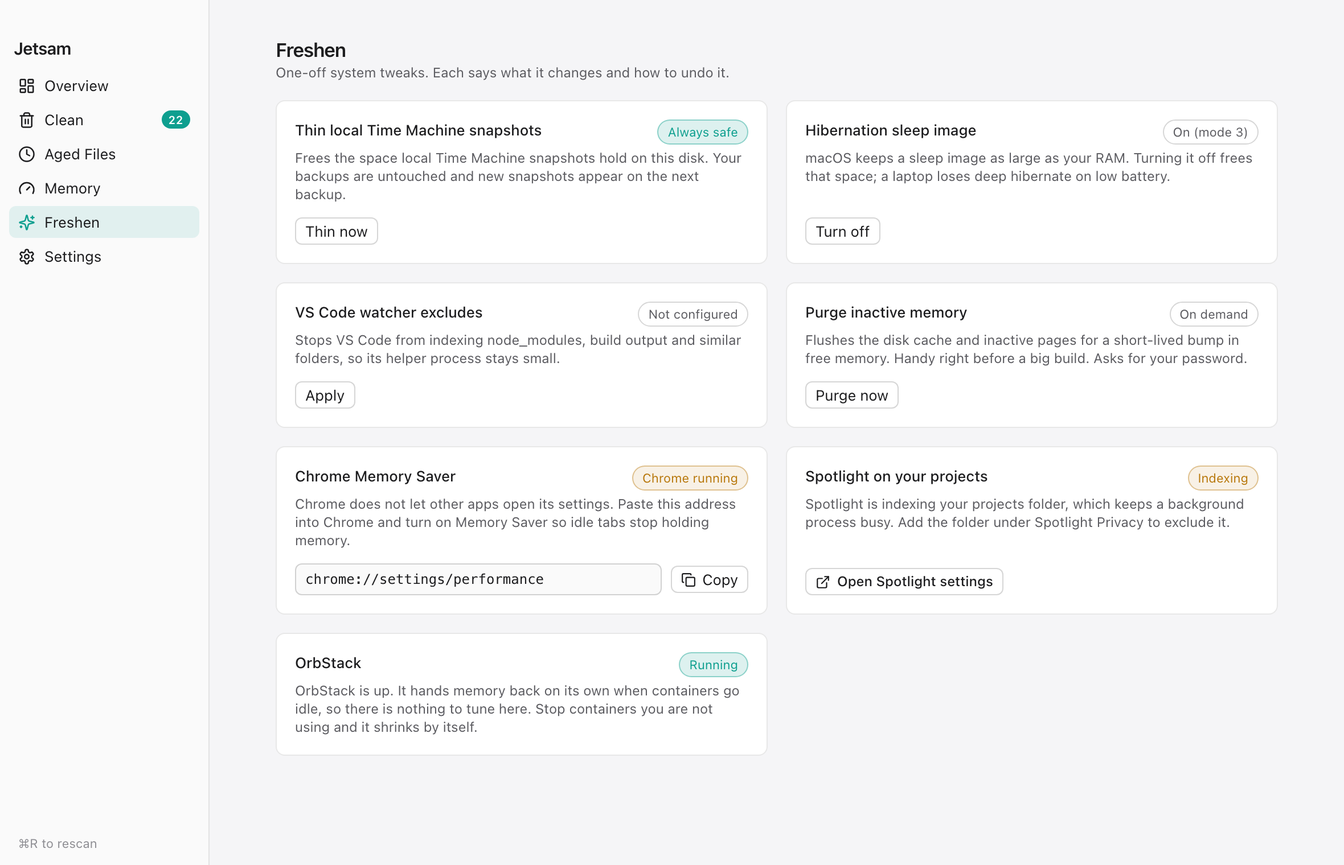
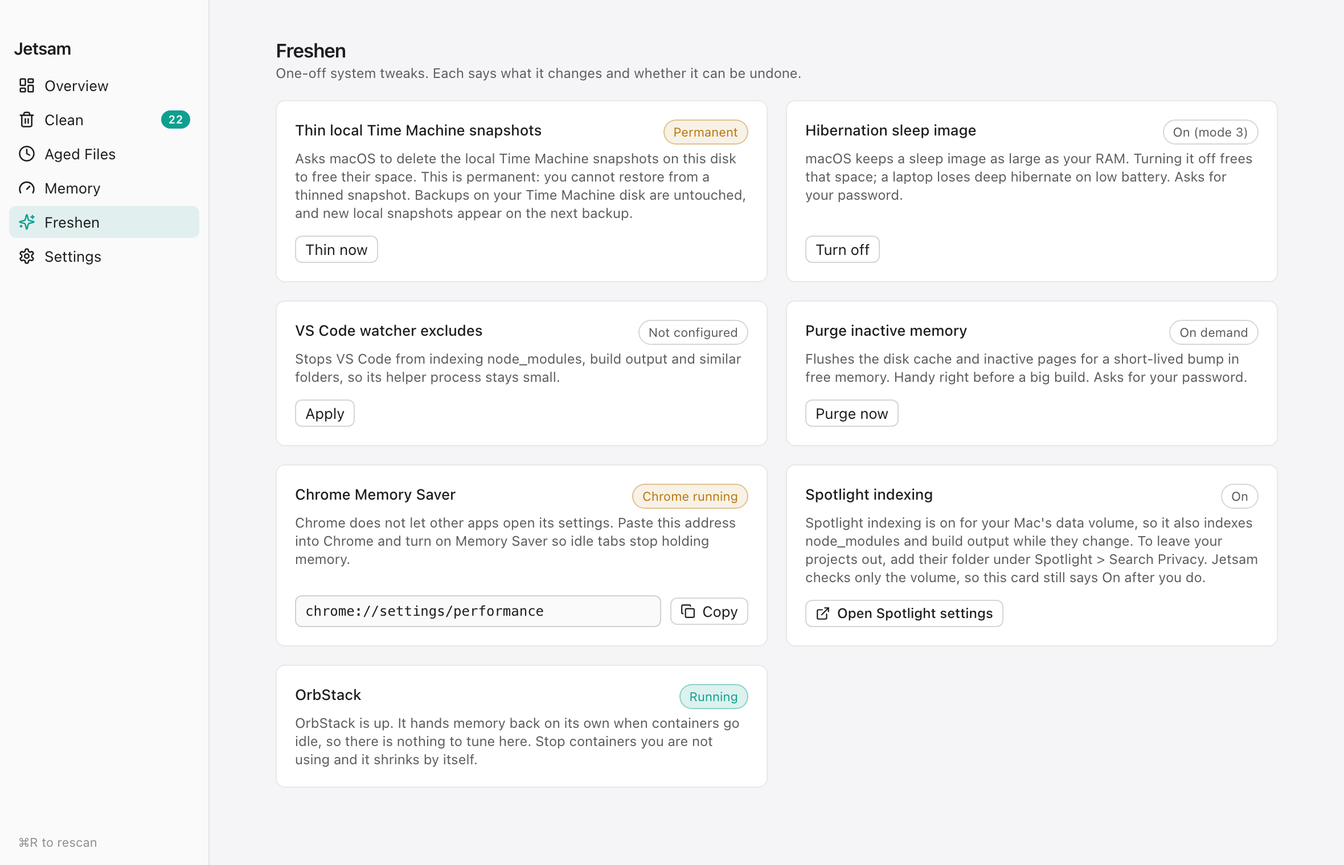
Correct the docs against 0.1.0, refresh screenshots, add Homebrew install

diff --git a/README.md b/README.md
@@ -28,6 +28,14 @@ gh release verify-asset Jetsam.dmg --repo nitwit45/jetsam
 
 The second command needs [GitHub CLI](https://cli.github.com) 2.81 or later. It checks the file against GitHub's signed record of the release. Releases here are immutable: once one is published, its files and its tag cannot be changed. I built 0.1.0 on my own Mac, not in the release workflow, so it has no build provenance attestation.
 
+Or with Homebrew:
+
+```sh
+brew install --cask nitwit45/tap/jetsam
+```
+
+The [cask](https://github.com/nitwit45/homebrew-tap/blob/main/Casks/jetsam.rb) removes the quarantine attribute after it installs, which is what the `xattr` command below does by hand, so macOS does not block the first launch.
+
 ### Opening an unsigned build
 
 Jetsam is not signed with an Apple Developer ID, so macOS blocks the first launch.
@@ -45,6 +53,10 @@ On macOS 15 and later, Control-click > Open no longer gets past this. If macOS s
 
 Then grant Full Disk Access, see [Permissions and network](#permissions-and-network).
 
+### Updating
+
+Jetsam does not check for updates. To hear about a new version, choose **Watch > Custom > Releases** on this repository. To update, quit Jetsam and replace it in Applications with the one from the new `Jetsam.dmg`, or run `brew upgrade --cask jetsam`. Your settings, the ops log and a weekly clean you had switched on all stay. macOS may ask for Full Disk Access again, because an unsigned build counts as a new app each time: if the banner returns, remove Jetsam from the Full Disk Access list and add it again.
+
 ## What it does
 
 ### Clean
@@ -53,16 +65,16 @@ Pick a mode on **Overview**, press **Scan**, and review the result under **Clean
 
 | Mode | Adds |
 |---|---|
-| Light | `~/Library/Caches` (except what Standard lists) and `~/Library/Logs`, the Trash, `.dmg` and `.pkg` files in Downloads older than 14 days, Homebrew cleanup, Docker dangling images and build cache. |
+| Light | `~/Library/Caches` (except what Standard lists) and `~/Library/Logs`, `.dmg` and `.pkg` files in Downloads older than 14 days, Homebrew cleanup, Docker dangling images and build cache. What is already in the Trash is listed too, and is emptied only after you confirm a permanent delete. |
 | Standard | Package manager caches (npm, pnpm, bun, pip, cargo, Gradle, Playwright), Xcode and Android leftovers. |
 | Deep | Build folders in inactive projects, stale merged worktrees, all unused Docker images, and AI session logs older than 45 days for you to review. |
 | Full | Build folders in projects you are working on now. Nothing git-tracked is touched. |
 
-A project is active when its newest commit or git index write is under 14 days old (**Settings > Recent window**). Deep lists its build folders but they cannot be ticked. A project outside git has no activity date, so Deep preselects its build folders. Every path and rule: [docs/modes.md](docs/modes.md).
+A project is active when its newest commit or git index write is under 14 days old (**Settings > Recent window**). In Deep, an active project's build folders are listed but cannot be ticked; Full lets you tick them. A project outside git has no activity date, so Deep preselects its build folders. Every path and rule: [docs/modes.md](docs/modes.md).
 
 ### Aged files
 
-**Aged Files** lists files in your home folder of 250 MB or more that you have not opened in 90 days (adjustable), by Spotlight's last-used date. Nothing is preselected, and a row's Trash button moves that file at once.
+**Aged Files** lists files in your home folder of 250 MB or more that you have not opened in 90 days (adjustable), by Spotlight's last-used date. It walks the whole home folder, `~/Library` and hidden folders included, so a row can be application data or a virtual machine or Docker disk image, and trashing a disk image takes the volumes inside it. Nothing is preselected, and a row's Trash button moves that file at once.
 
 <picture>
   <source media="(prefers-color-scheme: dark)" srcset="docs/img/aged-dark.png">
@@ -71,7 +83,7 @@ A project is active when its newest commit or git index write is under 14 days o
 
 ### Memory
 
-**Memory** samples every process every 10 seconds and labels it orphan, leak, idle, headless browser, virtual machine or protected. **Reclaim now** ends the orphans, then flushes the file cache. Other unprotected processes you tick are ended after a confirmation: SIGTERM, then SIGKILL if still running 3 seconds later. Soft restart quits and reopens Chrome, VS Code or Cursor, and refuses while a Claude Code agent runs in the editor. Thresholds are in [docs/memory.md](docs/memory.md).
+**Memory** samples every process every 10 seconds and labels it orphan, leak, idle, headless browser, virtual machine or protected. **Reclaim now** ends the orphans, then flushes the file cache. An orphan is a script runtime (`node`, `bun`, `python`, `ruby`, `java`), a JavaScript build tool or an editor helper whose parent exited while Jetsam was open. A job you started with `nohup` and left running after closing its terminal matches, so check the rows labelled orphan before you press it. Other unprotected processes you tick are ended after a confirmation: SIGTERM, then SIGKILL if still running 3 seconds later. Soft restart quits and reopens Chrome, VS Code or Cursor, and refuses while a Claude Code agent runs in the editor. Thresholds are in [docs/memory.md](docs/memory.md).
 
 <picture>
   <source media="(prefers-color-scheme: dark)" srcset="docs/img/memory-dark.png">
@@ -80,11 +92,11 @@ A project is active when its newest commit or git index write is under 14 days o
 
 ### Freshen
 
-Four one-off changes: thin local Time Machine snapshots (permanent), switch the hibernation sleep image, add VS Code watcher excludes, and purge inactive memory. See [docs/freshen.md](docs/freshen.md).
+**Freshen** is a screen with four one-off system changes: thin local Time Machine snapshots (permanent), switch the hibernation sleep image, add VS Code watcher excludes, and purge inactive memory. See [docs/freshen.md](docs/freshen.md).
 
 ### Schedule and command line
 
-**Settings > Weekly clean** runs a Light or Standard clean every Sunday at 10:00 with no preview. The same run by hand:
+**Settings > Weekly clean** runs a Light or Standard clean every Sunday at 10:00 with no preview. It never empties the Trash. It runs the copy of Jetsam that switched it on, so turn it on from the one in Applications, and its output goes to `~/Library/Logs/Jetsam/weekly.log`. The same run by hand:
 
 ```sh
 /Applications/Jetsam.app/Contents/MacOS/jetsam --headless --mode standard
@@ -98,13 +110,13 @@ Four one-off changes: thin local Time Machine snapshots (permanent), switch the 
 Jetsam deletes files and ends processes. The rules below are what limits it.
 
 - In the app, every item is listed with its path and size before it can be removed, and unticking a row keeps it. The weekly job and `--headless` remove what a scan would preselect without asking, and skip anything marked for review.
-- Files go to the Trash, and **Undo** restores what the most recent clean sent to your home Trash. Permanent: the **Permanent** switch, which needs you to type `delete`; `brew cleanup` and the Docker prunes; `git worktree prune` after a worktree is removed; and Freshen's snapshot thinning.
+- Files go to the Trash. When every item in a clean succeeds, the toast offers **Undo** for 12 seconds, which puts back what that clean sent to your home Trash. After that, or after a clean that left items behind, use Finder's **Put Back**. Permanent: the **Permanent** switch, which needs you to type `delete`; `brew cleanup` and the Docker prunes; `git worktree prune` after a worktree is removed; and Freshen's snapshot thinning.
 - If the Trash refuses an item, it stays put. A permanent delete is offered behind the same typed confirmation, never run on its own.
 - Each path is checked again right before removal and skipped if it changed since the scan.
 - Git-tracked files are skipped, even inside a build folder, and a git failure counts as tracked. A folder with `.git` directly inside it is never removed, except a stale worktree.
 - `build`, `dist` and similar names count only inside a git repo or next to a project file such as `package.json`. `target` needs a `Cargo.toml` beside it.
 - A worktree goes only when it is under `.claude/worktrees/`, has no uncommitted or ignored files other than build output, has no commits outside `main` or `master`, has seen no git activity for 24 hours, and no process works inside it.
-- Never touched: Keychains, Mail, Messages, Photos libraries, iCloud Drive, iPhone backups, `~/.ssh`, `~/.gnupg`, `~/.aws`, `~/.kube`, `~/.docker`, Claude Code memory and the system folders. Docker volumes and containers are never pruned.
+- Never touched (the deny-list): Keychains, Mail, Messages, Photos libraries, iCloud Drive, iPhone backups, `~/.ssh`, `~/.gnupg`, `~/.aws`, `~/.kube`, `~/.docker`, Claude Code memory and the system folders. Docker volumes and containers are never pruned. The full list is in [docs/modes.md](docs/modes.md#never-reachable).
 - Memory triage never ends a running Claude Code agent, anything it started, the terminal or editor hosting it, the app you were last using and its helpers, Jetsam itself, or [macOS processes](docs/memory.md#protected). Virtual machines are only labelled.
 - Every clean is logged to `~/Library/Application Support/Jetsam/ops.log`, one JSON line per item.
 
@@ -127,7 +139,7 @@ I have not measured the cost side: whatever is removed downloads or rebuilds the
 
 ## Permissions and network
 
-Without Full Disk Access, macOS hides folders such as `~/Library/Mail` from the scan and a banner says so. Grant it in **System Settings > Privacy & Security > Full Disk Access**; the banner's button opens that pane.
+Without Full Disk Access, macOS stops Jetsam reading some folders in your home folder, the Trash and parts of other apps' data among them. Their items and sizes are missing from a scan, and a banner says so. Granting it does not widen what Jetsam removes. Grant it in **System Settings > Privacy & Security > Full Disk Access**; the banner's button opens that pane.
 
 Jetsam runs as your user. The cache flush, Freshen's purge and the hibernation switch ask for your administrator password each time. **Restart now** opens the macOS restart dialog, which ends every process, running Claude Code agents included, unless you cancel it.
 
@@ -152,7 +164,7 @@ rm -rf ~/Library/WebKit/dev.nith.jetsam ~/Library/Caches/dev.nith.jetsam
 rm -f ~/Library/LaunchAgents/com.nith.jetsam.weekly.plist
 ```
 
-Remove Jetsam from **System Settings > Privacy & Security > Full Disk Access**.
+Remove Jetsam from **System Settings > Privacy & Security > Full Disk Access**. If you installed with Homebrew, `brew uninstall --zap --cask jetsam` does the same as the commands above.
 
 ## Building from source
 

diff --git a/docs/FAQ.md b/docs/FAQ.md
@@ -14,7 +14,7 @@
 
 ## I cleaned 20 GB but Finder shows no new free space
 
-Files moved to the Trash still use disk space until the Trash is emptied. The toast after a clean says so: "Files are in the Trash until you empty it." Empty the Trash in Finder, or run a Light scan and delete the Trash category permanently.
+Files moved to the Trash still use disk space until the Trash is emptied. The toast after a clean says so: "Files are in the Trash until you empty it." Empty the Trash in Finder. Or run a Light clean: the Trash items come back as not cleaned, and **Delete these permanently** empties them once you type `delete`.
 
 If the Trash is empty and the space still has not come back, APFS may be holding it in local Time Machine snapshots or as purgeable space. **Freshen > Thin local Time Machine snapshots** asks macOS to thin them.
 
@@ -24,7 +24,7 @@ That is expected. Everything Jetsam removes in Clean is something a tool can reg
 
 ## Why does it need Full Disk Access?
 
-macOS blocks apps from reading some folders under `~/Library`, such as `~/Library/Mail` and `~/Library/Safari`, without it. Jetsam works without it, but the scan and Aged Files cannot see into those folders, so their sizes are missing. Jetsam checks by trying to read those two folders, shows a banner while it cannot, and checks again each time its window comes to the front.
+macOS blocks apps from reading some folders in your home folder without it: the Trash, `~/Library/Safari` and parts of other apps' data. Jetsam works without it, but the Trash category and Aged Files miss whatever sits in those folders. Jetsam checks by trying to read `~/Library/Mail` and `~/Library/Safari`, shows a banner while it cannot, and checks again each time its window comes to the front.
 
 Full Disk Access does not widen what Jetsam deletes: Mail, Messages and the rest of the deny-list are refused either way.
 
@@ -63,7 +63,7 @@ Moving something that is already in the Trash to the Trash is refused, so those 
 
 ## What does Undo cover?
 
-The most recent batch in the ops log, and only items that went to the Trash in your home folder's `~/.Trash`. That batch can be the weekly job's: if it ran after your last clean in the app, Undo restores the weekly job's items, and your own clean can no longer be undone. Each item is put back from the exact place it landed, recorded in the ops log. It is skipped if it is no longer in the Trash, if something now sits at its original path, or if the folder it came from is gone. Permanent deletes, `brew` or `docker` commands and `git worktree prune` cannot be undone.
+Undo is a button in the toast that follows a clean. It shows for 12 seconds, and only when every item in that clean succeeded; a clean that left items behind shows **Details** instead. It acts on the most recent batch in the ops log, and only on items that went to the Trash in your home folder's `~/.Trash`. Each item is put back from the exact place it landed, recorded in the ops log. It is skipped if it is no longer in the Trash, if something now sits at its original path, or if the folder it came from is gone. Once the toast is gone, Finder's **Put Back** returns an item to where it came from. Permanent deletes, `brew` or `docker` commands and `git worktree prune` cannot be undone.
 
 ## Does it protect other coding agents?
 

diff --git a/docs/releasing.md b/docs/releasing.md
@@ -35,13 +35,15 @@ How a version goes out. The workflow is `.github/workflows/release.yml`; if this
    gh release verify-asset Jetsam.dmg --repo nitwit45/jetsam
    ```
 
+10. Update the Homebrew cask: in [nitwit45/homebrew-tap](https://github.com/nitwit45/homebrew-tap), set `version` and `sha256` in `Casks/jetsam.rb`, run `brew style nitwit45/tap` and `brew audit --cask --strict --online nitwit45/tap/jetsam`, and push.
+
 `Jetsam.dmg` keeps the same name in every release, so `releases/latest/download/Jetsam.dmg` in the README always points at the newest one.
 
 ## Releasing without the workflow
 
 0.1.0 was released this way, from one Mac. The result has a checksum and GitHub's release attestation, but no build provenance attestation, and the notes have to say so.
 
-1. Do steps 1 to 3 with the Release workflow disabled (`gh workflow disable release.yml`), so the tag does not start it.
+1. Do steps 1 to 3 with the Release workflow disabled (`gh workflow disable release.yml`), so the tag does not start it. Turn it back on with `gh workflow enable release.yml` before the next release that uses the workflow.
 2. Run the checks in [building.md](building.md#checks). Then build with your home folder remapped, or the binary carries your account name in the source paths of its panic messages:
 
    ```sh
@@ -60,12 +62,29 @@ How a version goes out. The workflow is `.github/workflows/release.yml`; if this
    ```
 
    The count must be 0. Run the app from the mounted image once, and run `jetsam --headless --dry-run` natively and under `arch -x86_64`.
-4. Write `notes.md` the way the workflow does: the CHANGELOG section, then the install block with the SHA-256 table. Leave out `gh attestation verify` and say the build was local.
-5. Create the draft, then follow steps 5 to 9:
+4. Write `notes.md`: the body of the version's CHANGELOG section, then this block with the checksum and version filled in:
+
+   ````markdown
+   ### Install
+
+   Download Jetsam.dmg below, open it and drag Jetsam to Applications. It is not signed with an Apple Developer ID, so macOS blocks the first launch: see [Opening an unsigned build](https://github.com/nitwit45/jetsam#opening-an-unsigned-build).
+
+   | File | SHA-256 |
+   |---|---|
+   | Jetsam.dmg | `<sha256>` |
 
    ```sh
-   gh release create v0.1.0 --draft --verify-tag --title "Jetsam 0.1.0" \
-     --notes-file notes.md Jetsam.dmg Jetsam.dmg.sha256
+   shasum -a 256 -c Jetsam.dmg.sha256
+   gh release verify-asset v<version> Jetsam.dmg --repo nitwit45/jetsam
+   ```
+
+   I built the release on my own Mac, not in the release workflow, so it has no build provenance attestation.
+   ````
+5. Create the draft from that folder, then follow steps 5 to 9, skipping the `gh attestation verify` line in step 6:
+
+   ```sh
+   gh release create v<version> --repo nitwit45/jetsam --draft --verify-tag \
+     --title "Jetsam <version>" --notes-file notes.md Jetsam.dmg Jetsam.dmg.sha256
    ```
 
 ## Changelog sections

diff --git a/docs/safety.md b/docs/safety.md
@@ -1,6 +1,6 @@
 # Safety review
 
-Reviewed 10 Nov 2026 against commit `548fa4b`.
+Reviewed 10 Nov 2026. Every function and test named below was checked again on 15 Nov 2026 and exists in v0.1.0.
 
 This is a maintainer review, not an independent audit.
 
@@ -32,7 +32,7 @@ Each row is one claim from the README, the code that enforces it, and the test t
 | Files go to the Trash through NSFileManager, and Jetsam records where each one landed. | `cleaner::trash_context`, `cleaner::move_to_trash`, `cleaner::locate_in_trash` | `cleaner::nsfilemanager_trash_records_where_the_file_landed` (ignored by default: it uses the real `~/.Trash`; run with `cargo test -- --ignored`) |
 | If the Trash refuses an item it stays on disk with reason `trash-refused`; nothing falls back to a permanent delete. | `cleaner::move_to_trash`, `cleaner::TRASH_REFUSED` | `cleaner::items_already_in_the_trash_are_refused_not_removed` |
 | A permanent delete of refused items is offered only behind typing `delete`. | `src/components/clean/CleanModals.tsx` (UI) | No test |
-| Undo acts on the most recent batch in the ops log, a scheduled run's included. It restores only the exact Trash entry recorded at delete time, never over a path that exists again. Items trashed on another volume are not located, so they cannot be restored. | `cleaner::restore`, `cleaner::undo_last`, `cleaner::read_last_batch`, `cleaner::locate_in_trash` | `cleaner::undo_restores_the_recorded_trash_entry_and_skips_conflicts` |
+| Undo acts on the most recent batch in the ops log. The app offers it only as a toast button, for 12 seconds after a clean in which every item succeeded. It restores only the exact Trash entry recorded at delete time, never over a path that exists again. Items trashed on another volume are not located, so they cannot be restored. | `cleaner::restore`, `cleaner::undo_last`, `cleaner::read_last_batch`, `cleaner::locate_in_trash` | `cleaner::undo_restores_the_recorded_trash_entry_and_skips_conflicts` |
 | Every clean appends one JSON line per item to `~/Library/Application Support/Jetsam/ops.log`. | `cleaner::append_ops`, `cleaner::ops_log_path` | `cleaner::clean_permanent_deletes_and_logs` |
 | Headless and scheduled runs send files to the Trash and skip `review` items. They also run the Homebrew and Docker command items, which are permanent. | `lib::run_headless` | No test |
 | Removing a worktree runs `git worktree prune` in its repository, which permanently deletes that worktree's entry under `.git/worktrees/` and any other stale entry there. Undo restores the folder but does not register it as a worktree again. | `cleaner::clean`, `cleaner::undo_last` | No test |

diff --git a/docs/building.md b/docs/building.md
@@ -4,7 +4,7 @@
 
 - macOS 13 or later. Jetsam is tested on Apple silicon only. Release DMGs are universal (`aarch64` and `x86_64`).
 - [bun](https://bun.sh) 1.3.13. CI pins this version because it wrote `bun.lock`; a different bun can rewrite the lockfile, and `bun install --frozen-lockfile` then fails on an unchanged repo. Bump the pin and regenerate `bun.lock` in the same PR.
-- Rust stable from `rustup`, with `clippy` and `rustfmt`. CI uses `dtolnay/rust-toolchain@stable`; there is no `rust-toolchain.toml`.
+- Rust stable from `rustup`, with `clippy` and `rustfmt`. The toolchain is not pinned: CI uses the current stable.
 - The Tauri 2 CLI comes from `@tauri-apps/cli` in `package.json`, run as `bun run tauri`.
 - `git` on your `PATH`. Several tests create real repositories in a temporary folder.
 
@@ -35,7 +35,7 @@ cargo clippy --all-targets -- -D warnings
 cargo test
 ```
 
-The repository has no `justfile`, `typos.toml`, `.nvmrc`, `clippy.toml`, `scripts/` folder or `src-tauri/tests/`. CI runs the commands above directly, the bun version is pinned in the workflows rather than in `.nvmrc`, the tag version check is inline in `release.yml`, and the Rust tests sit in a `tests` module beside the code they check.
+The cargo commands need `dist/`, which `bun run build` writes, so keep this order on a fresh clone. CI runs the same commands directly. The bun version is pinned in the workflows, the tag version check is inline in `release.yml`, and the Rust tests sit in a `tests` module beside the code they check.
 
 `bun run lint` is ESLint plus `prettier --check`. `bun run format` rewrites files with Prettier. Rust formatting follows `src-tauri/rustfmt.toml` (110 columns).
 

diff --git a/SECURITY.md b/SECURITY.md
@@ -10,7 +10,7 @@ Use GitHub's private vulnerability reporting on this repository (**Security > Re
 
 One person maintains Jetsam. You will get a reply within 7 days.
 
-A bug that makes Jetsam delete or end something it should not is treated as a security issue, whether or not anyone could exploit it. That includes anything that gets past the deny-list, removes a git-tracked file, removes a worktree with unmerged work, prunes a Docker volume or container, or ends a running Claude Code agent or a protected process. For those, also attach the matching lines from `~/Library/Application Support/Jetsam/ops.log`.
+A bug that makes Jetsam delete or end something it should not gets the same priority as a vulnerability, whether or not anyone could exploit it. That includes anything that gets past the deny-list, removes a git-tracked file, removes a worktree with unmerged work, prunes a Docker volume or container, or ends a running Claude Code agent or a protected process. Report one with the [Jetsam removed or ended something](https://github.com/nitwit45/jetsam/issues/new?template=data_loss.yml) issue form, which is public, or through private reporting if the paths or details are sensitive. Either way, attach the matching lines from `~/Library/Application Support/Jetsam/ops.log`.
 
 ## What Jetsam can do on your Mac
 

diff --git a/CONTRIBUTING.md b/CONTRIBUTING.md
@@ -45,7 +45,7 @@ If you are unsure whether something is regenerable, it is not.
 
 ## Changelog
 
-Add a line under `## Unreleased` in [CHANGELOG.md](CHANGELOG.md); CI fails a PR that does not touch it (Dependabot PRs are exempt). Put it in one of the sections Safety, Added, Changed or Fixed. Safety is for any change to what can be removed or ended. Prefix the line with the area and end it with the PR number:
+Add a line under `## Unreleased` in [CHANGELOG.md](CHANGELOG.md); CI fails a PR that changes code without touching it. PRs that change only Markdown files, `docs/` or `.github/` are exempt, and so are Dependabot PRs. Put the line in one of the sections Safety, Added, Changed or Fixed. Safety is for any change to what can be removed or ended. Prefix the line with the area and end it with the PR number, which you have once the PR is open:
 
 ```markdown
 - Clean: stale worktrees with an ignored `.env` are now skipped (#12).

diff --git a/CODE_OF_CONDUCT.md b/CODE_OF_CONDUCT.md
@@ -1,0 +1,11 @@
+# Code of conduct
+
+This covers the issues, pull requests and discussions of this repository.
+
+- Argue about the code, the bug or the idea. Leave the person out of it.
+- No harassment, insults, slurs or sexual content, and no posting of anyone's private information.
+- Someone reporting that Jetsam removed their files gets a polite answer, whoever turns out to be at fault.
+
+I maintain Jetsam alone and moderate it alone. I hide or delete what breaks these rules and block accounts that keep doing it.
+
+To report a comment, use **Report content** in its menu, which goes to GitHub. To reach me without posting in public, open a private report under [Security > Report a vulnerability](https://github.com/nitwit45/jetsam/security/advisories/new) and say it is about conduct.

diff --git a/CHANGELOG.md b/CHANGELOG.md
@@ -23,7 +23,7 @@ First public release: four clean modes with a preview, Aged Files, and memory tr
 ### Added
 
 - Clean: Light, Standard, Deep and Full modes, each with a preview.
-- Clean: Undo for the most recent batch, a scheduled run's included, restored from where each item landed in the Trash.
+- Clean: Undo in the toast after a clean, restored from where each item landed in the Trash.
 - Clean: ops log at `~/Library/Application Support/Jetsam/ops.log`.
 - Aged Files: big files not opened for 30 days to a year, by Spotlight's last-used date.
 - Memory: pressure, swap and a per-process view labelled orphan, leak, idle, headless browser, VM or protected. Reclaim, soft restart of Chrome, VS Code and Cursor, and Restart now through the macOS restart dialog.

diff --git a/docs/memory.md b/docs/memory.md
@@ -60,7 +60,7 @@ The root and all its child processes form one group, named after the script that
 
 ### idle
 
-At least 200 MB resident and under 0.5% CPU in every sample from the last 15 minutes, with at least six samples. With fewer samples, it needs to have been running for more than 15 minutes and be under 0.5% CPU now. Informational only.
+At least 200 MB resident and under 0.5% CPU in every kept sample, which is at most the last 10 minutes, with at least six samples. With fewer samples, it needs to have been running for more than 15 minutes and be under 0.5% CPU now. Informational only.
 
 ### leak
 

diff --git a/docs/troubleshooting.md b/docs/troubleshooting.md
@@ -75,6 +75,8 @@ Soft restart messages:
 
 **launchctl bootstrap failed.** launchd would not load the job. Turn **Weekly clean** off and on again. The job's output goes to `~/Library/Logs/Jetsam/weekly.log`.
 
+**The weekly clean never runs and `weekly.log` stays empty.** The job runs the copy of Jetsam that switched it on. If that was the mounted DMG or a copy in Downloads, the file is gone by Sunday. Turn **Weekly clean** off and on again from the copy in Applications.
+
 ## Command line
 
 The binary prints `jetsam: ` and one of these, then exits with status 2:
